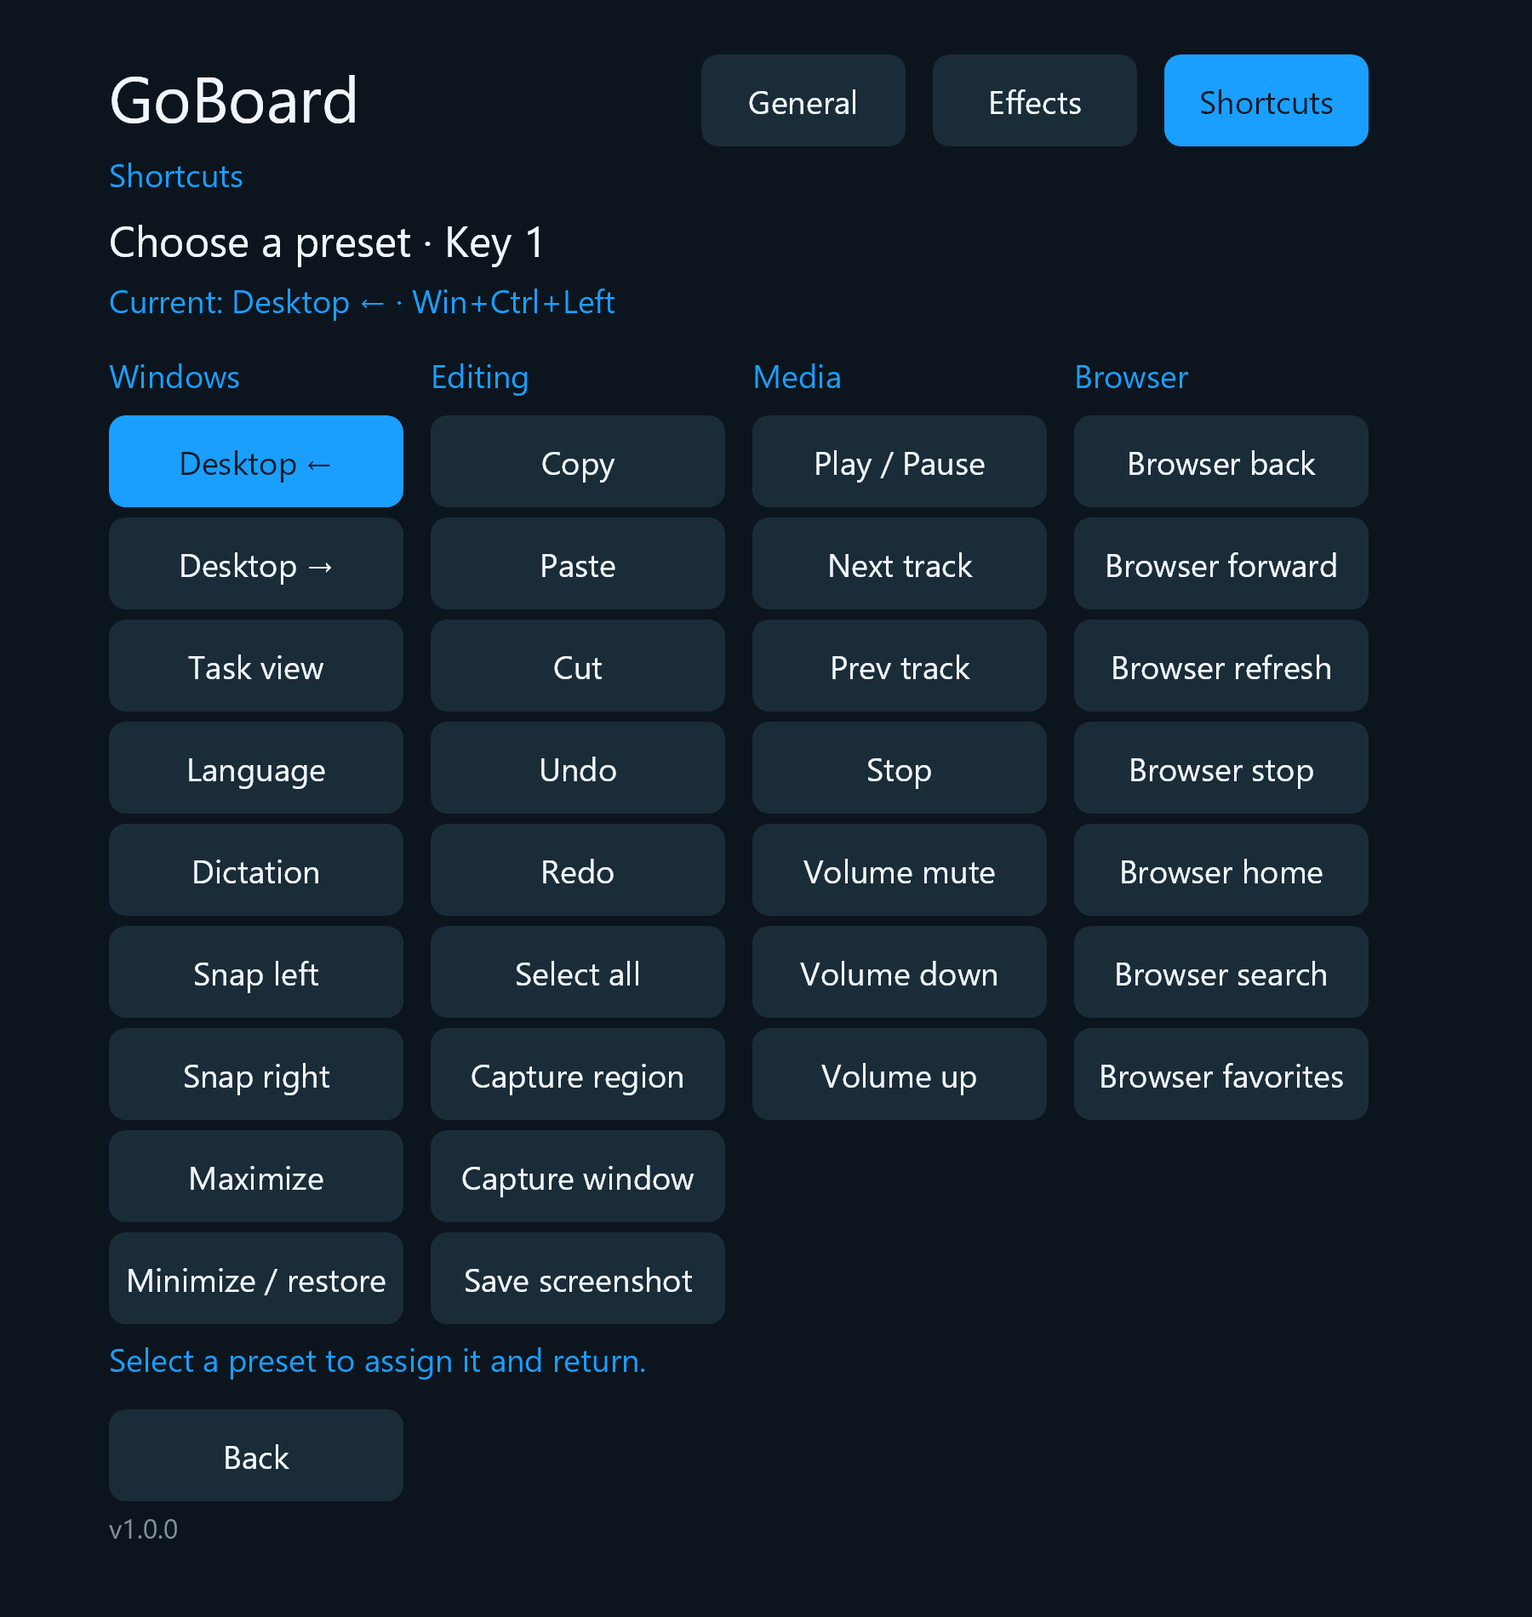
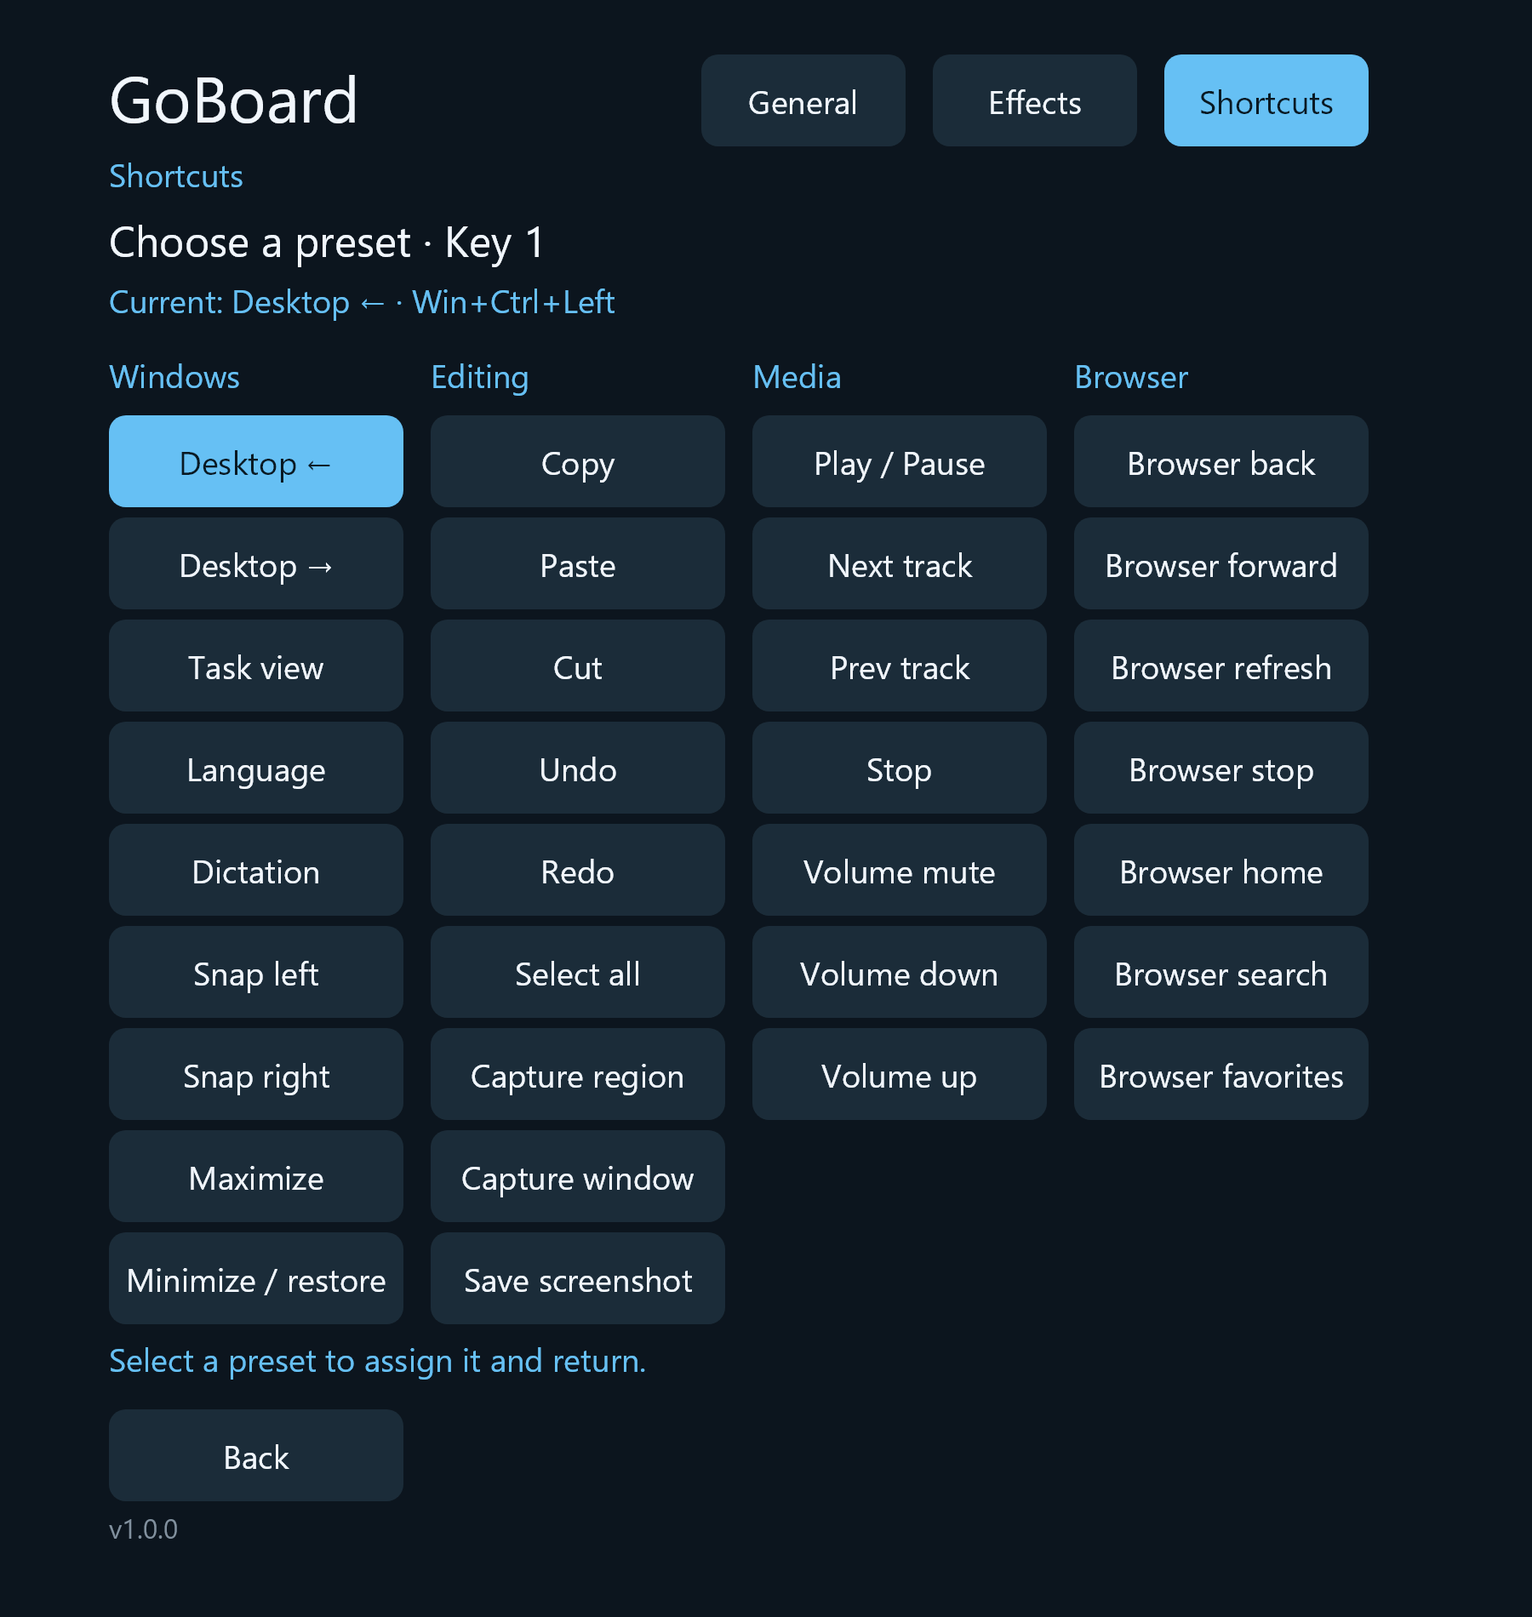
Limit Dashboard blue to grab handles and key hover outlines

diff --git a/src/GoBoard.Presentation.Skia/KeyboardTheme.cs b/src/GoBoard.Presentation.Skia/KeyboardTheme.cs
@@ -11,7 +11,8 @@ internal sealed record KeyboardTheme
     public SKColor Border { get; init; } = SKColor.Parse("#233340");
     public SKColor Text { get; init; } = SKColor.Parse("#DAE2E8");
     public SKColor Secondary { get; init; } = SKColor.Parse("#BECBD5");
-    public SKColor Accent { get; init; } = BrandColors.Accent;
+    public SKColor Accent { get; init; } = SKColor.Parse("#66C0F4");
+    public SKColor HoverOutline { get; init; } = InteractionColors.DashboardBlue;
     public SKColor Ink { get; init; } = SKColor.Parse("#0E202C");
     public SKColor Notice { get; init; } = SKColor.Parse("#EDC694");
     public SKColor ArmedBorder { get; init; } = SKColor.Parse("#315B73");
@@ -34,7 +35,7 @@ internal sealed record KeyboardTheme
         Secondary = SKColor.Parse("#F1F6FC"), Ink = SKColor.Parse("#091923"),
         FaceStops = [SKColor.Parse("#14202A"), SKColor.Parse("#14202A")], FacePositions = [0, 1],
         ArmedStops = [SKColor.Parse("#172D3C"), SKColor.Parse("#172D3C")],
-        ArmedBorder = BrandColors.Accent, PanelFrame = true, KeyEdges = false,
+        ArmedBorder = SKColor.Parse("#66C0F4"), PanelFrame = true, KeyEdges = false,
         ShadowBlur = 0, ShadowOffset = 0, SpecialSize = 12
     };
 

diff --git a/src/GoBoard.App/DesktopShortcuts.cs b/src/GoBoard.App/DesktopShortcuts.cs
@@ -49,13 +49,13 @@ internal sealed class DesktopShortcuts : IDisposable
             var area = DragAtBottom ? new Rectangle(0, 0, Width, Height - DragHeight) : new Rectangle(0, DragHeight, Width, Height - DragHeight);
             frame?.Draw(e.Graphics, area);
             var y = DragAtBottom ? Height - DragHeight / 2 : DragHeight / 2;
-            var color = StatusError ? Color.FromArgb(255, 176, 160) : Color.FromArgb(unchecked((int)BrandColors.AccentArgb));
+            var color = StatusError ? Color.FromArgb(255, 176, 160) : Color.FromArgb(102, 192, 244);
             if (Status != null)
                 TextRenderer.DrawText(e.Graphics, Status, Font, new Rectangle(2, y - DragHeight / 2, Width - 4, DragHeight), color,
                     TextFormatFlags.HorizontalCenter | TextFormatFlags.VerticalCenter | TextFormatFlags.SingleLine | TextFormatFlags.EndEllipsis);
             else
             {
-                using var pen = new Pen(color, 2);
+                using var pen = new Pen(Color.FromArgb(unchecked((int)InteractionColors.DashboardBlueArgb)), 2);
                 e.Graphics.DrawLine(pen, Width / 2 - 12, y, Width / 2 + 12, y);
             }
         }

diff --git a/tests/GoBoard.Tests/KeyAudioTests.cs b/tests/GoBoard.Tests/KeyAudioTests.cs
@@ -178,7 +178,7 @@ public sealed class KeyAudioTests
                 foreach (var button in buttons)
                 {
                     var selected = SettingsControls.SoundFor(button.Action) == KeySounds.Canonical(sound);
-                    Assert.Equal(selected ? new SKColor(0x1a, 0x9f, 0xff) : new SKColor(0x1b, 0x2c, 0x39),
+                    Assert.Equal(selected ? new SKColor(0x66, 0xc0, 0xf4) : new SKColor(0x1b, 0x2c, 0x39),
                         bitmap.GetPixel((int)(button.Bounds.X + 12) * 2, (int)(button.Bounds.Y + 12) * 2));
                 }
                 if (output == null) continue;

diff --git a/src/GoBoard.Presentation.Skia/Panel.cs b/src/GoBoard.Presentation.Skia/Panel.cs
@@ -243,7 +243,7 @@ internal static class Panel
                 style.EdgeStops, style.EdgePositions, SKShaderTileMode.Clamp);
             paint.Style = SKPaintStyle.Stroke;
             paint.StrokeWidth = (hover && !filled) || !style.KeyEdges ? 1.2f : .6f;
-            paint.Color = hover && !filled ? style.Accent : armed ? style.ArmedBorder : SKColors.White;
+            paint.Color = hover && !filled ? style.HoverOutline : armed ? style.ArmedBorder : SKColors.White;
             paint.Shader = (!hover && !armed) || filled ? edge : null;
             DrawKey(canvas, key, paint);
         }

diff --git a/src/GoBoard.Presentation.Skia/AnimatedKeyboardRenderer.Pointer.cs b/src/GoBoard.Presentation.Skia/AnimatedKeyboardRenderer.Pointer.cs
@@ -106,7 +106,7 @@ internal sealed partial class AnimatedKeyboardRenderer
             }
             if (hover > .001 && !locked)
             {
-                paint.Color = accent.WithAlpha((byte)(230 * hover)); paint.Style = SKPaintStyle.Stroke; paint.StrokeWidth = 1.2f;
+                paint.Color = style.HoverOutline.WithAlpha((byte)(230 * hover)); paint.Style = SKPaintStyle.Stroke; paint.StrokeWidth = 1.2f;
                 canvas.DrawPath(path, paint); paint.Style = SKPaintStyle.Fill;
             }
         }

diff --git a/assets/branding/render.cs b/assets/branding/render.cs
@@ -5,7 +5,7 @@ using System.Globalization;
 using System.Xml.Linq;
 using SkiaSharp;
 
-// Run from the repository root: dotnet run --file assets/branding/render.cs
+// Run from the repository root: dotnet run --file assets/branding/render.cs --no-cache
 // This logo deliberately uses only flat, filled SVG rectangles. Read their
 // geometry from the SVG so it remains the single source for every export.
 var directory = Path.GetFullPath("assets/branding");

diff --git a/src/GoBoard.Presentation.Skia/SettingsPanel.cs b/src/GoBoard.Presentation.Skia/SettingsPanel.cs
@@ -24,7 +24,7 @@ internal static class SettingsPanel
         using var small = new SKFont(face, 19);
         using var version = new SKFont(face, 16);
         var text = new SKColor(0xf1, 0xf6, 0xfc);
-        var accent = BrandColors.Accent;
+        var accent = new SKColor(0x66, 0xc0, 0xf4);
         void Text(string value, float x, float y, SKFont font, SKColor color)
         {
             paint.Color = color;

diff --git a/src/GoBoard.Presentation.Skia/GrabHandleRenderer.cs b/src/GoBoard.Presentation.Skia/GrabHandleRenderer.cs
@@ -17,7 +17,7 @@ internal static class GrabHandleRenderer
         using var paint = new SKPaint { IsAntialias = true };
         paint.Color = state switch
         {
-            2 => BrandColors.Accent,
+            2 => InteractionColors.DashboardBlue,
             1 => new SKColor(241, 246, 252),
             _ => new SKColor(112, 122, 134)
         };

diff --git a/src/GoBoard.Presentation.Skia/ResizeHandleRenderer.cs b/src/GoBoard.Presentation.Skia/ResizeHandleRenderer.cs
@@ -22,7 +22,7 @@ internal static class ResizeHandleRenderer
             StrokeWidth = state == 0 ? 4 : 4.5f,
             Color = state switch
             {
-                2 => BrandColors.Accent,
+                2 => InteractionColors.DashboardBlue,
                 1 => SKColors.White,
                 _ => new SKColor(112, 122, 134)
             }

diff --git a/src/GoBoard.Presentation.Skia/InteractionColors.cs b/src/GoBoard.Presentation.Skia/InteractionColors.cs
@@ -1,0 +1,10 @@
+using SkiaSharp;
+
+namespace GoBoard.Presentation.Skia;
+
+internal static class InteractionColors
+{
+    // Reserve Dashboard blue for grab handles and keyboard hover outlines.
+    public const uint DashboardBlueArgb = 0xFF1A9FFF;
+    public static readonly SKColor DashboardBlue = new(DashboardBlueArgb);
+}

diff --git a/docs/development.md b/docs/development.md
@@ -125,7 +125,7 @@ The default panel is 850 x 282 logical units, rendered at 2550 x 846 and display
 
 The floating numpad button adds a standard 17-key keypad to the right of the main keyboard in desktop and VR. **Settings → General → Arrangement → Numpad button** shows or hides that floating control. The button defaults to shown, including for existing settings files; the keypad defaults to closed. Both preferences are saved independently of the physical ANSI/ISO arrangement and shortcut palette. Main key positions and sizes are unchanged; the panel grows from 850 to 1046 logical units (about 111 cm wide at 100% in VR). Desktop mode fits the wider keyboard to the monitor's work area when necessary.
 
-The keys use physical keypad identities, including extended Divide and Enter, through the same guarded input path as the main keys. Digits and decimal follow Windows Num Lock; the NumLk indicator reflects the Windows toggle. Each dual-purpose key centers its active action in the normal text color, with a small blue alternate in the upper-left corner. Digits and arrows use 18-unit type, words use 14-unit type, and hints use 9-unit type; all retain their natural proportions. Turning Num Lock off swaps the numeric and navigation labels (Home/End, PgUp/PgDn, arrows, Ins/Del and Clear on keypad 5). Clear is a Windows key action, with behavior determined by the receiving app ([Windows keypad mappings](https://github.com/microsoft/Windows-driver-samples/blob/main/input/layout/all_kbds/kbdfr/kbdfr.c)). `Dec` is an action label because Windows controls the decimal separator. Digits and operators repeat with their captured modifier chord; Num Lock and Enter do not repeat. Main-keyboard one-shot and locked modifiers also apply to the keypad.
+The keys use physical keypad identities, including extended Divide and Enter, through the same guarded input path as the main keys. Digits and decimal follow Windows Num Lock; the NumLk indicator reflects the Windows toggle. Each dual-purpose key centers its active action in the normal text color, with a small cyan alternate in the upper-left corner. Digits and arrows use 18-unit type, words use 14-unit type, and hints use 9-unit type; all retain their natural proportions. Turning Num Lock off swaps the numeric and navigation labels (Home/End, PgUp/PgDn, arrows, Ins/Del and Clear on keypad 5). Clear is a Windows key action, with behavior determined by the receiving app ([Windows keypad mappings](https://github.com/microsoft/Windows-driver-samples/blob/main/input/layout/all_kbds/kbdfr/kbdfr.c)). `Dec` is an action label because Windows controls the decimal separator. Digits and operators repeat with their captured modifier chord; Num Lock and Enter do not repeat. Main-keyboard one-shot and locked modifiers also apply to the keypad.
 
 Opening or closing the keypad cancels keyboard captures, repeat, hover and queued input from the old geometry, plus active VR move/resize gestures. The VR resize grip follows the new right corner, while the move handle stays centered beneath the main keys without the numpad. The main keys, move handle, reset arrow and shortcut panels stay in place; only the right edge expands or contracts. Settings writes preserve unrelated preferences. VR keeps a fixed 3138×846 texture, physical overlay width and square texels across toggles. The keyboard is left-aligned with transparent padding reserved on the right, with pointer conversion aligned to that content. Its input mask excludes the unused numpad function row so the toggle remains independently clickable above Num Lock. This avoids showing the previous texture stretched for a compositor frame while width, aspect and pixels update separately. Texture lifetime and UV orientation remain unchanged.
 
@@ -142,9 +142,11 @@ Remaining headset acceptance: verify numpad legibility and two-controller typing
 
 ## Keyboard themes
 
-Theme selection is shared by desktop and VR and saved as a stable `Theme` ID in settings.json. `steam-soft` is the default; `steam-flat` uses flat surfaces. Both themes share the SteamVR Dashboard blue accent (`#1A9FFF`) with settings, handles, shortcut controls, and branding. Missing, null, or unknown IDs fall back to Steam Soft without discarding other settings. Reset to defaults also resets the theme. Theme changes invalidate the keyboard render after settings reload, including while no keys are moving; they preserve input state and geometry.
+Theme selection is shared by desktop and VR and saved as a stable `Theme` ID in settings.json. `steam-soft` is the default; `steam-flat` preserves the previous colors and flat surfaces. Missing, null, or unknown IDs fall back to Steam Soft without discarding other settings. Reset to defaults also resets the theme. Theme changes invalidate the keyboard render after settings reload, including while no keys are moving; they preserve input state and geometry.
 
-Steam Soft follows the surfaces of `artifacts/keyboard-mockups/06-spacing-experiment-2u-v13.svg`: a plain #101820 background, three-stop key and edge gradients, subtle shadows, muted Shift legends, blue AltGr and interaction accents. The existing cropped 4-unit margin and 2-unit key spacing are retained. The mockup's illustrated modifier states are live states, not part of the theme. Both Ctrl aliases reflect the same state in production.
+Steam Soft follows `artifacts/keyboard-mockups/06-spacing-experiment-2u-v13.svg`: a plain #101820 background, three-stop key and edge gradients, subtle shadows, muted Shift legends, cyan AltGr and interaction accents. The existing cropped 4-unit margin and 2-unit key spacing are retained. The mockup's illustrated modifier states are live states, not part of the theme. Both Ctrl aliases reflect the same state in production.
+
+SteamVR Dashboard blue (`#1A9FFF`) is reserved for active grab/resize handles, desktop shortcut drag strips, and keyboard hover outlines (including animated hover trails). Labels, button fills, modifier indicators, and other effects retain the light cyan accent (`#66C0F4`).
 
 `BoardThemes` defines persisted IDs and labels; `KeyboardTheme` holds Skia visual tokens. Themes do not own key layouts, hit targets, or input behavior. To add a preset, add its stable ID, visual tokens, and shared settings action/control. No extra assets or packages are needed at runtime.
 
@@ -179,13 +181,13 @@ Desktop animation frames use the keyboard window's actual pixel dimensions and B
 
 ## SteamVR blue keyboard (Steam Flat)
 
-The Steam Flat theme takes its surfaces from `artifacts/keyboard-mockups/01-full-dark-steam-accents-v7.png`: flat dark blue-gray surfaces, faint borders, white primary/Shift legends, and blue AltGr legends. The shared Dashboard blue accent replaces the original cyan; the existing geometry and lack of a permanent header/footer are preserved. Navigation uses the standard 3-column by 2-row cluster: Insert / Home / PgUp above Delete / End / PgDn, with inverted-T arrows below and Print Screen / Scroll Lock / Pause above. All three system keys are non-repeating. Pause is injected as VK_PAUSE; Print Screen retains its E0 scan prefix. Close remains deferred; settings use the separate dashboard tab and desktop window.
+The Steam Flat theme takes its colors from `artifacts/keyboard-mockups/01-full-dark-steam-accents-v7.png`: flat dark blue-gray surfaces, faint borders, white primary/Shift legends, and cyan AltGr legends. Only the reference colors are used; the existing geometry and lack of a permanent header/footer are preserved. Navigation uses the standard 3-column by 2-row cluster: Insert / Home / PgUp above Delete / End / PgDn, with inverted-T arrows below and Print Screen / Scroll Lock / Pause above. All three system keys are non-repeating. Pause is injected as VK_PAUSE; Print Screen retains its E0 scan prefix. Close remains deferred; settings use the separate dashboard tab and desktop window.
 
 There are 86 US or 87 Swedish buttons. Caps sends a non-repeating Caps Lock stroke and reflects the actual Windows toggle. Menu sends the extended application-menu key. Left/right Shift buttons share one logical Shift mode, and left/right Ctrl buttons share one Ctrl mode; these aliases deliberately use the same scan code so they cannot inject duplicate modifiers. Swedish ISO Enter has one continuous L-shaped face and an excluded lower-left hit region. US uses a rectangular ANSI Enter and backslash above it. Space has an empty legend.
 
 Japanese fallback adds an あ/A button beside a shortened Space, for 87 buttons. It sends one balanced, non-repeating `VK_KANJI` stroke, independent of armed virtual modifiers. Its fixed caption is an action label rather than an IME state indicator. Other layouts retain their previous spacebar size. See [Japanese input behavior and checks](automatic-keyboard-layouts.md#japanese-あa-button).
 
-Primary legends reflect the current Shift/Caps/AltGr output. Non-letter keys also show their Shift alternative, while supported AltGr alternatives appear in blue. A small blue dot marks an active dead-key legend. Hover uses a thin outline, a pressed key uses blue fill, one-shot modifiers show a hollow circle and underline, and locked modifiers show a padlock. Caps and Scroll Lock use a dot and dark blue fill reflecting the Windows toggle state. Fallback layouts and input failures display a wrapped notice in the existing gap between navigation and arrows; normal operation has no footer text.
+Primary legends reflect the current Shift/Caps/AltGr output. Non-letter keys also show their Shift alternative, while supported AltGr alternatives appear in cyan. A small cyan dot marks an active dead-key legend. Hover uses a thin outline, a pressed key uses cyan fill, one-shot modifiers show a hollow circle and underline, and locked modifiers show a padlock. Caps and Scroll Lock use a dot and dark blue fill reflecting the Windows toggle state. Fallback layouts and input failures display a wrapped notice in the existing gap between navigation and arrows; normal operation has no footer text.
 
 Headless previews use the real renderer and a sink that cannot inject input. `--layout us|sv|uk|de|fr|us-intl|KLID` and `--state idle|hover|pressed|oneshot|locked|shift|caps|scrolllock|altgr|unsupported|error` require `--render`. These options never override live Windows layout detection. Preview images are in `artifacts/keyboard-implementation`. Regression tests cover shape overlap, Enter's cutout, shared modifiers, Caps/Menu/Insert non-repeat, and rendering of every preview state in both layouts. Visual readability and two-controller interaction still require an in-headset acceptance check.
 

diff --git a/assets/branding/README.md b/assets/branding/README.md
@@ -1,6 +1,6 @@
 # Branding assets
 
-- `goboard-logo.svg` is the editable vector master, using rounded rectangles on a flat dark background. Its keyboard mark uses SteamVR Dashboard blue (`#1A9FFF`), matching `BrandColors.Accent` in the shared renderer. The README uses this SVG directly.
+- `goboard-logo.svg` is the editable vector master, using rounded rectangles on a flat dark background. Its keyboard mark uses the light cyan accent (`#66C0F4`), matching keyboard labels and button fills. The README uses this SVG directly.
 - `goboard-logo.png` is a 1254 x 1254 export for consumers that require PNG. It is not embedded in the app.
 - `goboard-dashboard.png` is the 256 x 256 SteamVR dashboard thumbnail embedded as `GoBoard.Logo.png`. The renderer decodes it directly without a second resampling step.
 - `goboard.ico` supplies the Windows executable, desktop window, and MSI shortcut/Installed apps icons. It contains PNG frames at 16, 20, 24, 32, 40, 48, 64, 128, and 256 pixels. The MSI embeds this ICO directly rather than storing an extra copy of the executable as its icon stream.
@@ -8,7 +8,7 @@
 Regenerate all raster assets from the SVG with the repository's .NET SDK and locked SkiaSharp dependency, running from the repository root:
 
 ```powershell
-dotnet run --file assets/branding/render.cs
+dotnet run --file assets/branding/render.cs --no-cache
 ```
 
 The exporter reads the SVG's rectangle geometry and fills, then rasterizes each size directly. It intentionally supports this logo's simple SVG subset and rejects unsupported shapes or rectangle attributes. If the artwork starts using paths, transforms, or gradients, extend the exporter before regenerating.
